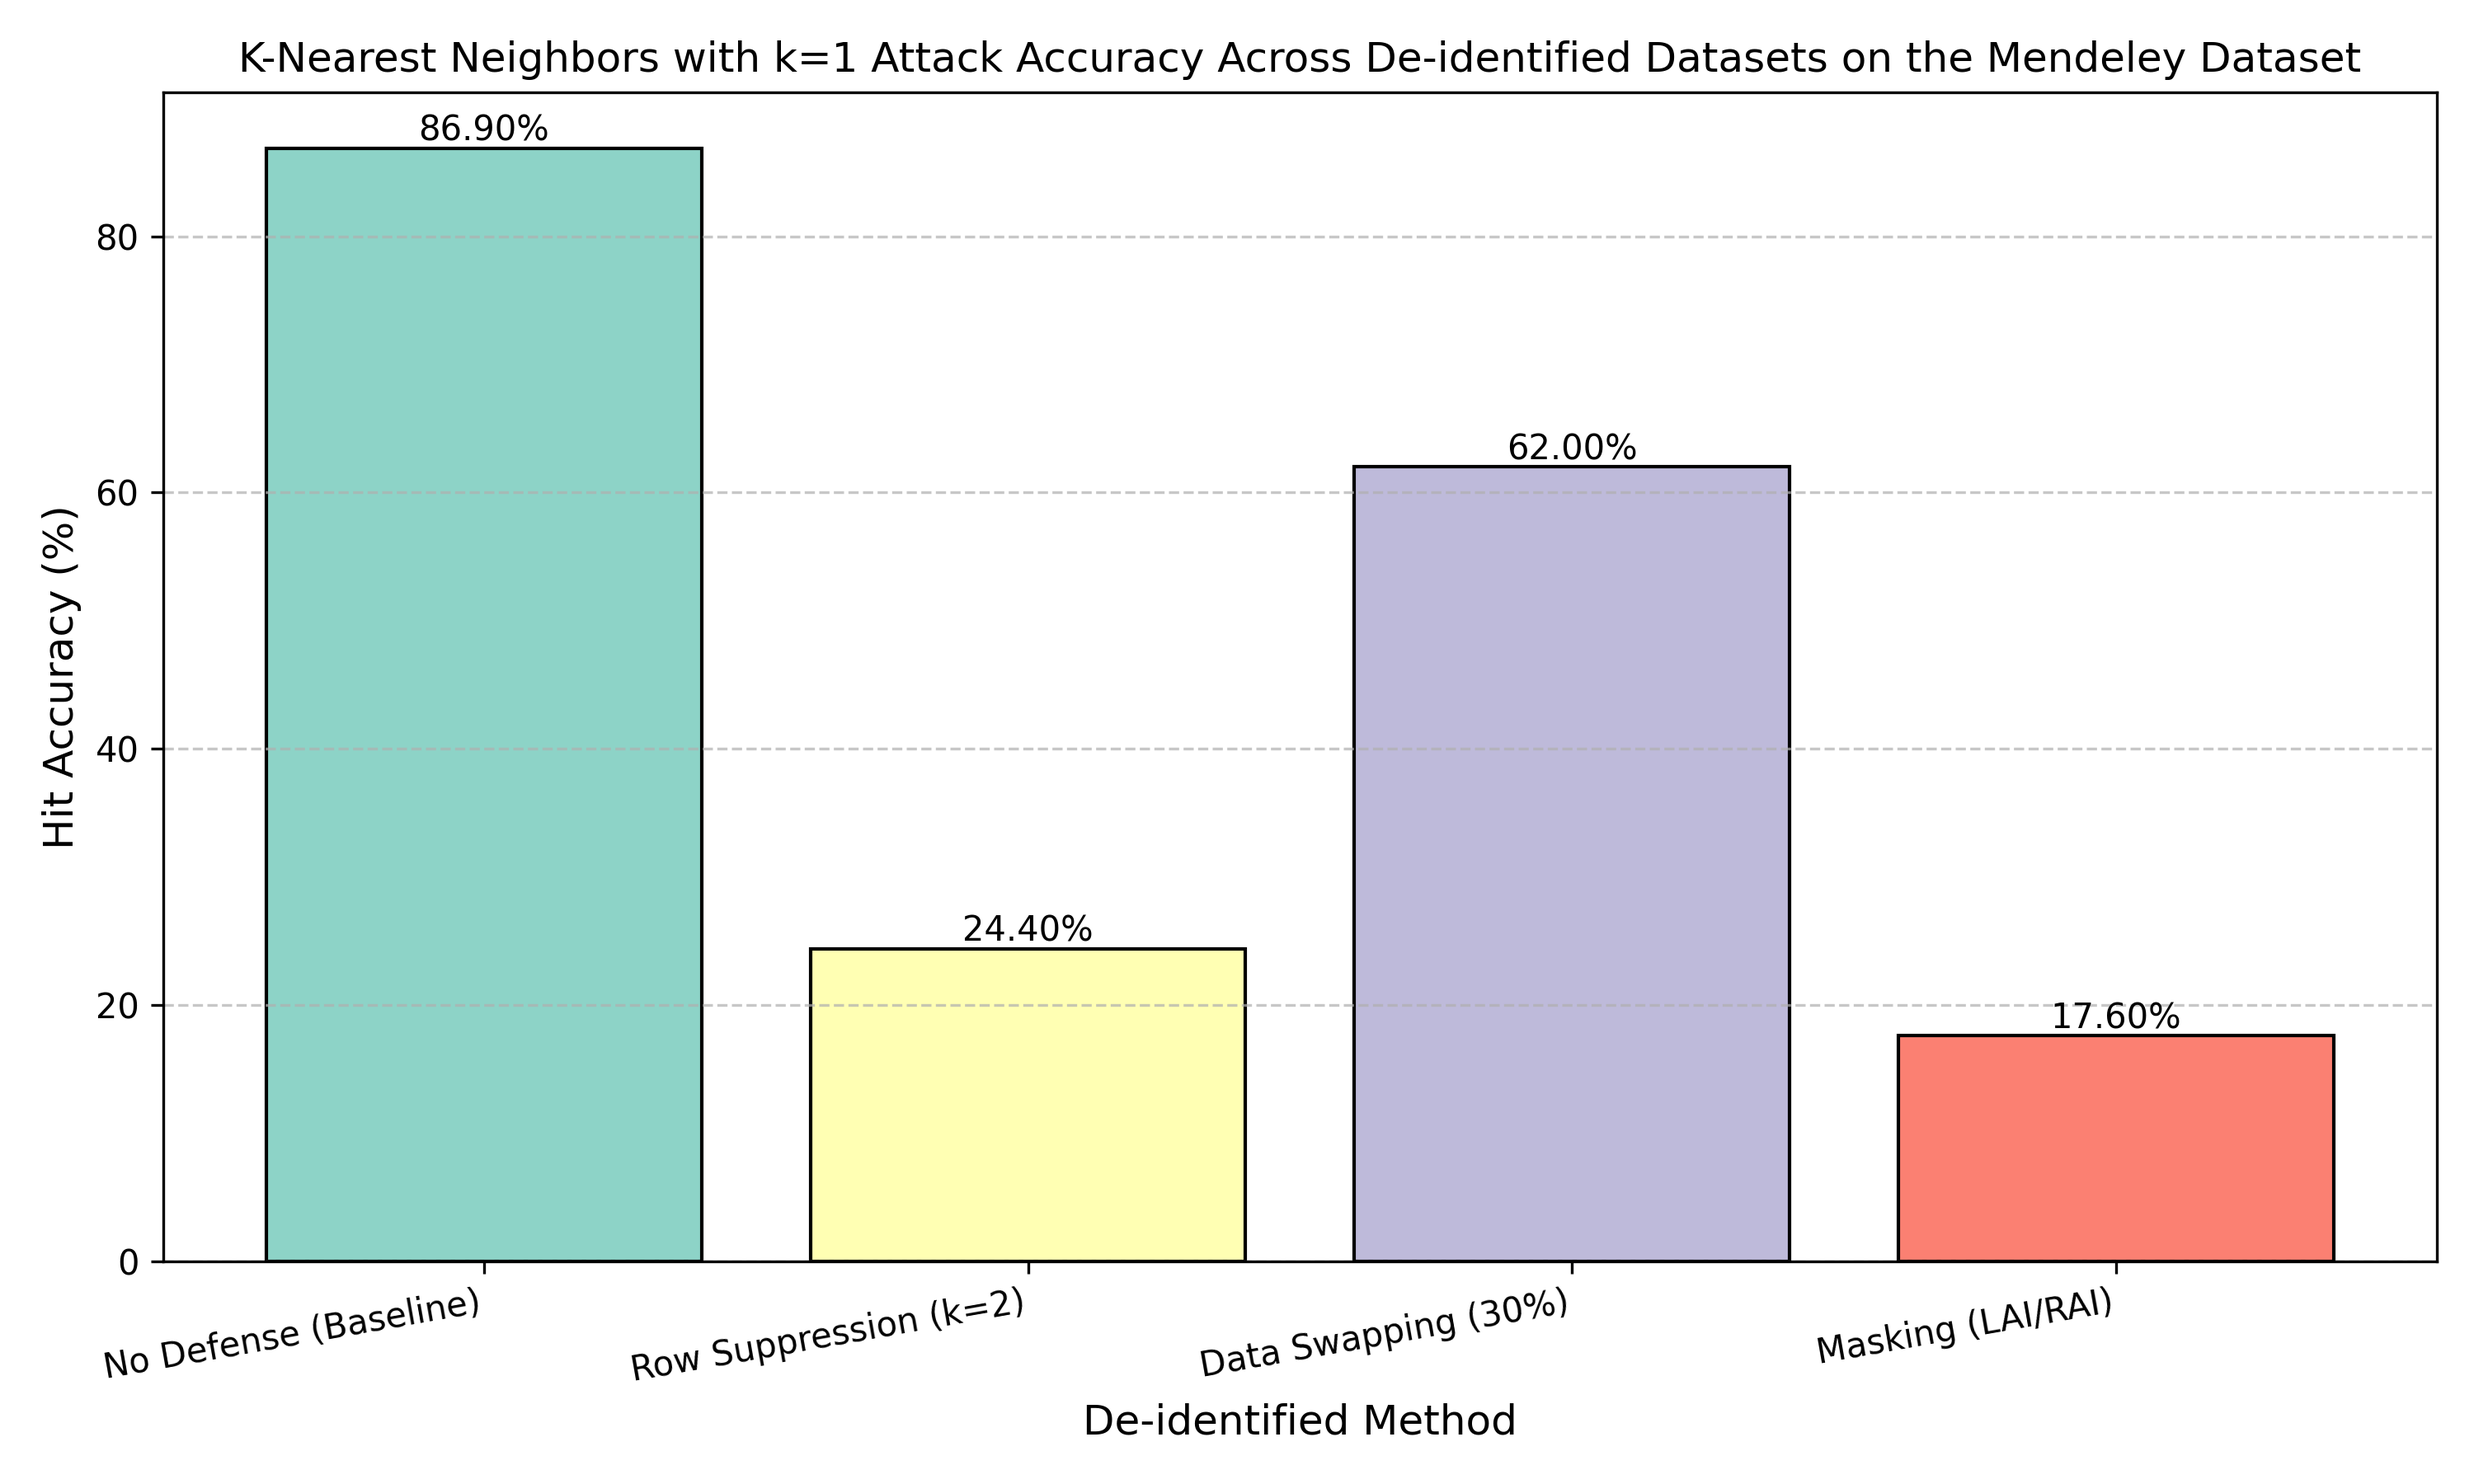
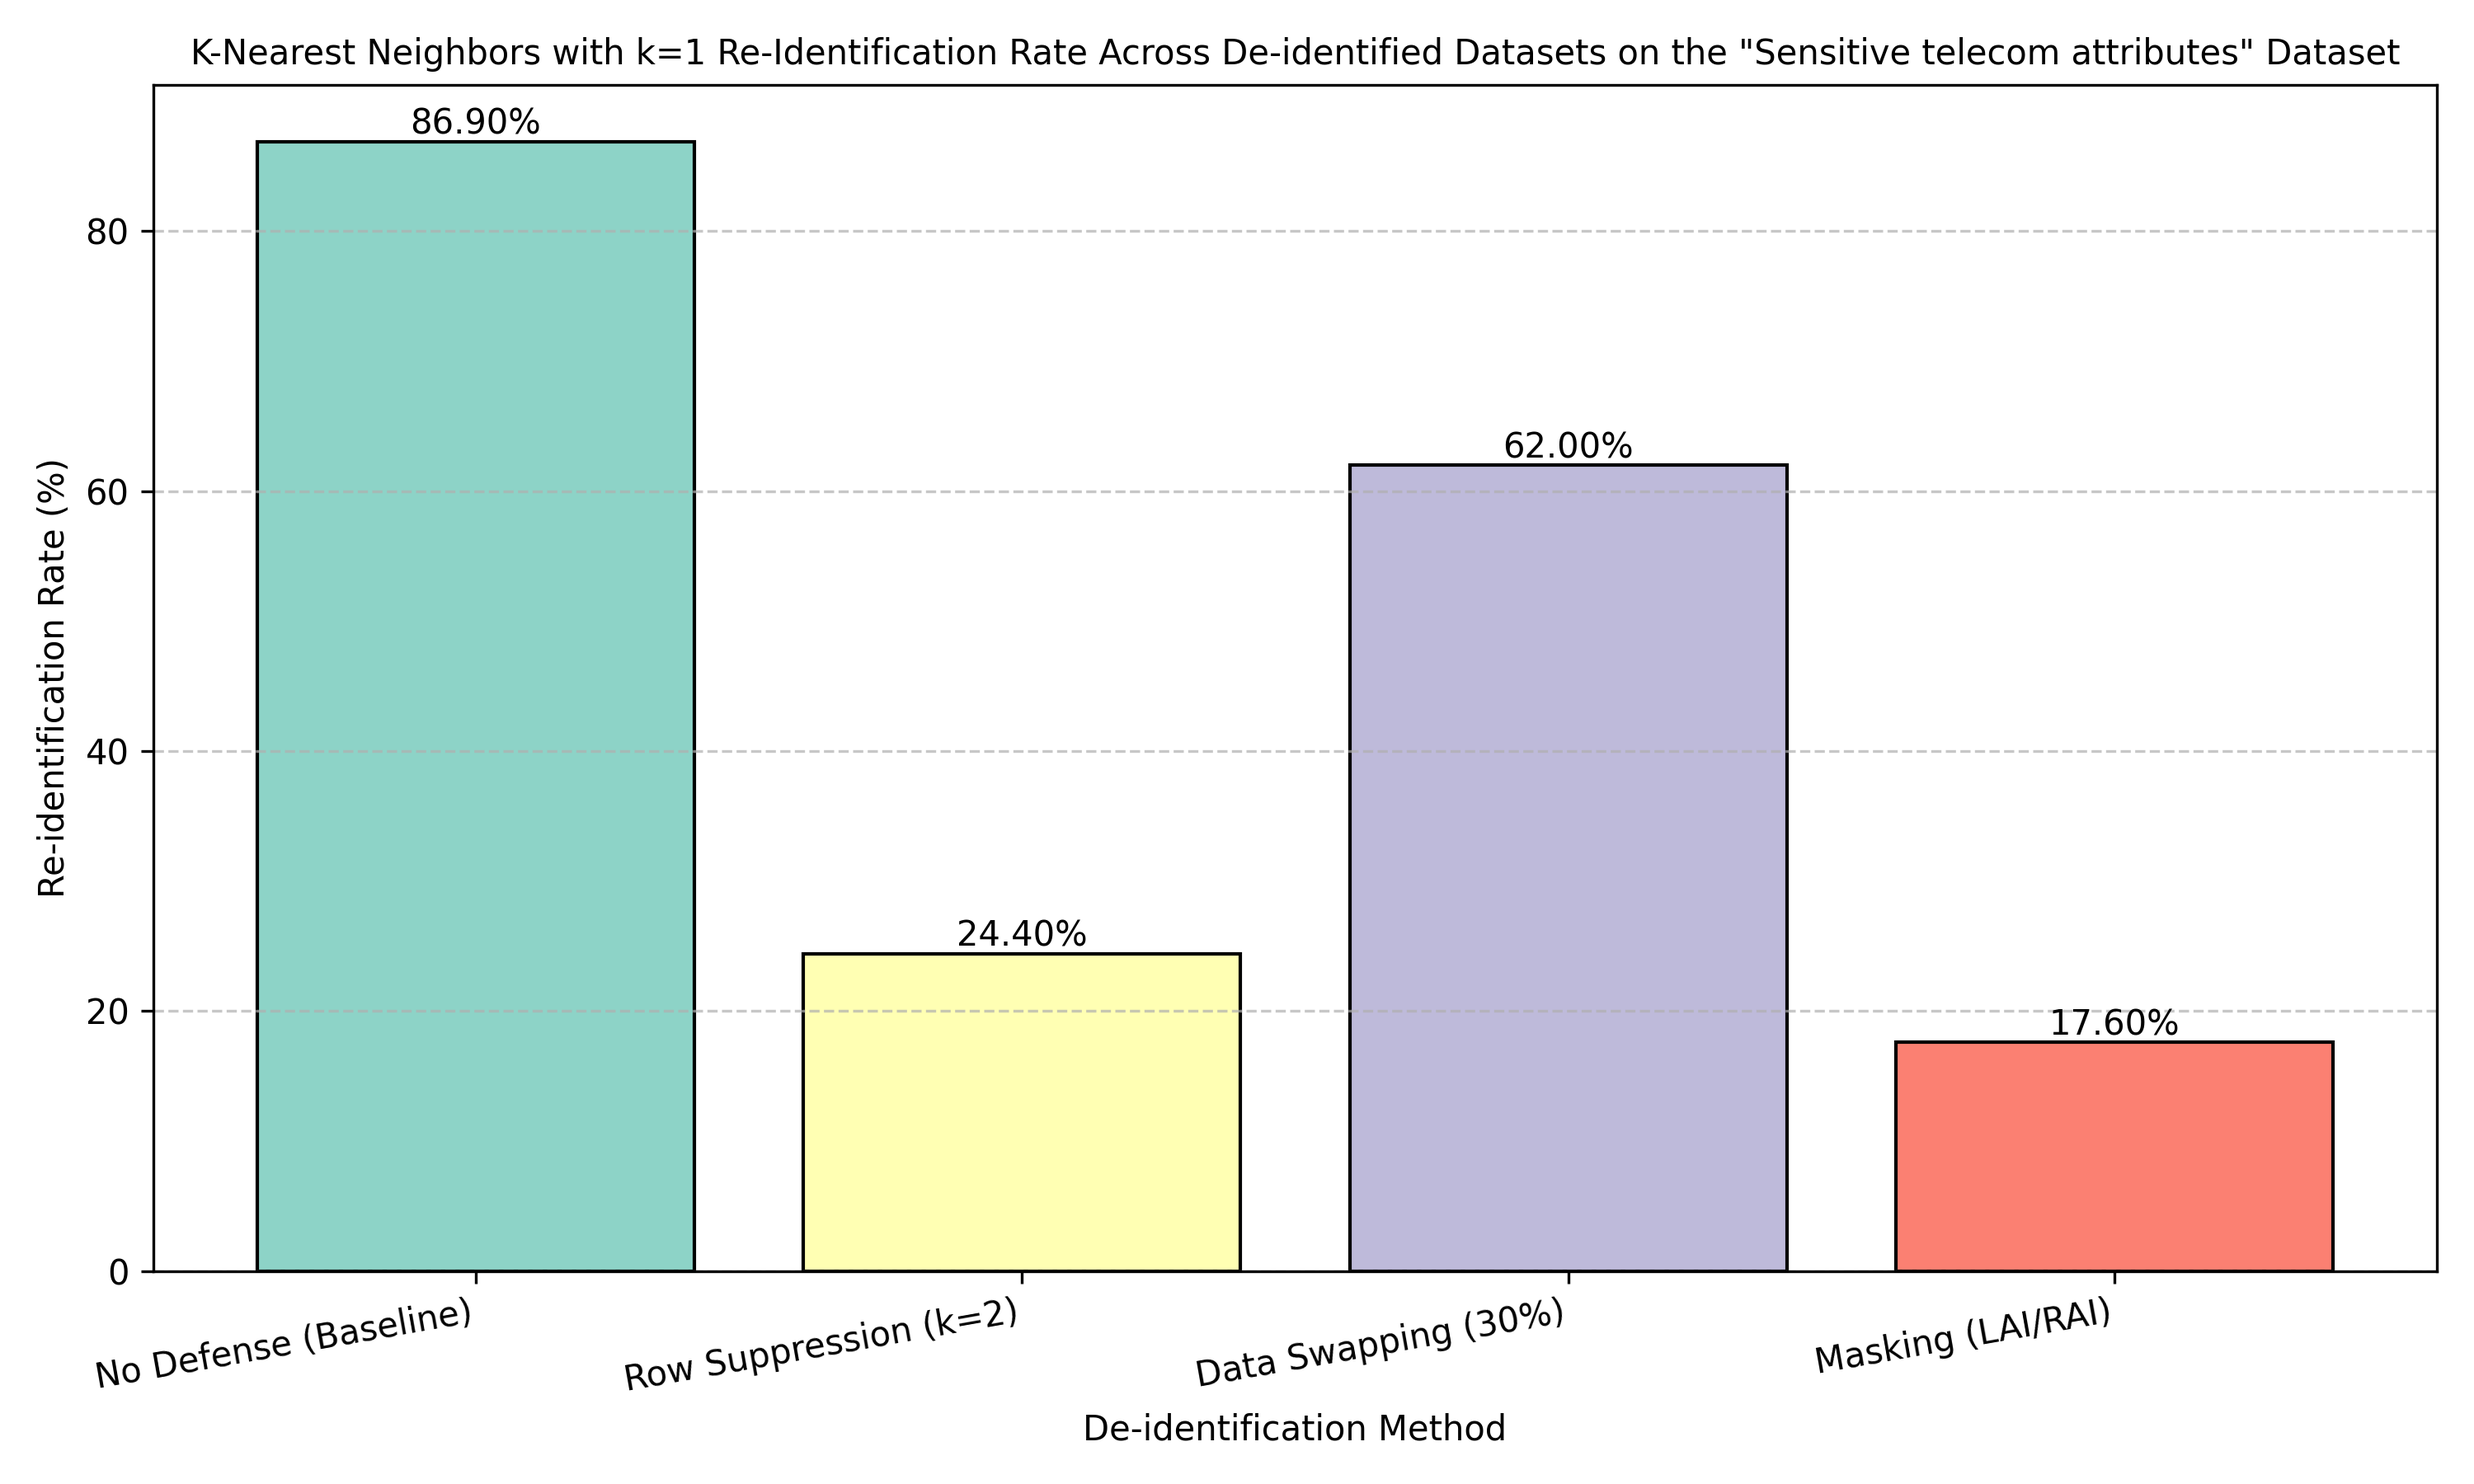
changes

diff --git a/benchmarks/attacks/k-nearest-neighbors-mendeley.py b/benchmarks/attacks/k-nearest-neighbors-mendeley.py
@@ -62,7 +62,6 @@ def evaluate_attack(results, df_attacker, df_protected, defense_name):
     print(f"Defense Method: {defense_name} - Hit Precision: {hit_precision:.2f}% ({correct_links}/{total_attacks} correct links)")
     return hit_precision
 
-
 def plot_results(results_dict, k):
     plt.figure(figsize=(10, 6)) 
     methods = list(results_dict.keys())
@@ -70,12 +69,12 @@ def plot_results(results_dict, k):
     
     for i in range(len(methods)):
         plt.bar(methods[i], accuracies[i], color=plt.cm.Set3(i), edgecolor='black')
-        plt.text(methods[i], accuracies[i] + 1, f"{accuracies[i]:.2f}%", ha='center', va='bottom', fontsize=10)
+        plt.text(methods[i], accuracies[i], f"{accuracies[i]:.2f}%", ha='center', va='bottom', fontsize=10)
         
-    plt.ylim(0, 100)
-    plt.ylabel('Hit Accuracy (%)', fontsize=12)
-    plt.xlabel('De-identified Method', fontsize=12)
-    plt.title(f'K-Nearest Neighbors with k={k} Attack Accuracy Across De-identified Datasets on the Mendeley Dataset', fontsize=12)
+    plt.xticks(rotation=10, ha='right', fontsize=10)    
+    plt.ylabel('Re-identification Rate (%)', fontsize=10)
+    plt.xlabel('De-identification Method', fontsize=10)
+    plt.title(f'K-Nearest Neighbors attack with k={k} Re-identification Rate Across De-identified Datasets on the "IP Address Geographic Profiles" Dataset', fontsize=10)
 
     plt.grid(axis='y', linestyle='--', alpha=0.7)
     plt.tight_layout()
@@ -92,8 +91,7 @@ if __name__ == "__main__":
         
     # add more defenses here
     datasets_to_test = {
-        # "No Defense (Baseline)": df_original,
-        "Only suppressed Direct Identifiers": pd.read_csv('../../datasets/de_identified_datasets/suppressed_DI_mendeley.csv'),
+        "No Defense (Baseline)": df_original,
         "Generalization" : pd.read_csv('../../datasets/de_identified_datasets/generalization_mendeley.csv'),
         "Row Suppression (k=2)": pd.read_csv('../../datasets/de_identified_datasets/row_suppression_mendeley.csv'),
         "Data Swapping (30%)": pd.read_csv('../../datasets/de_identified_datasets/swapped_dataset_mendeley.csv'),

diff --git a/benchmarks/attacks/netflix-attack-mendeley.py b/benchmarks/attacks/netflix-attack-mendeley.py
@@ -85,11 +85,12 @@ def plot_results(results_dict):
     
     for i in range(len(methods)):
         plt.bar(methods[i], accuracies[i], color=plt.cm.Set3(i), edgecolor='black')
-        plt.text(methods[i], accuracies[i] + 1, f"{accuracies[i]:.2f}%", ha='center', va='bottom', fontsize=10)
-    plt.ylim(0, 100)
-    plt.ylabel('Hit Accuracy (%)', fontsize=12)
-    plt.xlabel('De-identified Method', fontsize=12)
-    plt.title('Netflix Attack Accuracy Across De-identified Datasets on the Mendeley Dataset', fontsize=12)
+        plt.text(methods[i], accuracies[i], f"{accuracies[i]:.2f}%", ha='center', va='bottom', fontsize=10)
+        
+    plt.xticks(rotation=10, ha='right', fontsize=10)    
+    plt.ylabel('Re-identification Rate (%)', fontsize=10)
+    plt.xlabel('De-identification Method', fontsize=10)
+    plt.title('Netflix Attack Re-identification Rate Across De-identified Datasets on the "IP Address Geographic Profiles" Dataset', fontsize=10)
     plt.grid(axis='y', linestyle='--', alpha=0.7)
                  
     plt.tight_layout()

diff --git a/benchmarks/attacks/fellegi-sunter-mendeley.py b/benchmarks/attacks/fellegi-sunter-mendeley.py
@@ -83,12 +83,12 @@ def plot_results(results_dict):
     
     for i in range(len(methods)):
         plt.bar(methods[i], accuracies[i], color=plt.cm.Set3(i), edgecolor='black')
-        plt.text(methods[i], accuracies[i] + 1, f"{accuracies[i]:.2f}%", ha='center', va='bottom', fontsize=10)
+        plt.text(methods[i], accuracies[i], f"{accuracies[i]:.2f}%", ha='center', va='bottom', fontsize=10)
         
-    plt.ylim(0, 100)
-    plt.ylabel('Hit Accuracy (%)', fontsize=12)
-    plt.xlabel('De-identified Method', fontsize=12)
-    plt.title('Fellegi-Sunter Attack Accuracy Across De-identified Datasets on the Mendeley Dataset', fontsize=12)
+    plt.xticks(rotation=10, ha='right', fontsize=10)    
+    plt.ylabel('Re-identification Rate (%)', fontsize=10)
+    plt.xlabel('De-identification Method', fontsize=10)
+    plt.title('Fellegi-Sunter Attack Re-identification Rate Across De-identified Datasets on the "IP Address Geographic Profiles" Dataset', fontsize=10)
 
     plt.grid(axis='y', linestyle='--', alpha=0.7)
     plt.tight_layout()

diff --git a/benchmarks/attacks/k-nearest-neighbors-telecom.py b/benchmarks/attacks/k-nearest-neighbors-telecom.py
@@ -71,11 +71,11 @@ def plot_results(results_dict, k):
     for i in range(len(methods)):
         plt.bar(methods[i], accuracies[i], color=plt.cm.Set3(i), edgecolor='black')
         plt.text(methods[i], accuracies[i], f"{accuracies[i]:.2f}%", ha='center', va='bottom', fontsize=10)
-
+        
     plt.xticks(rotation=10, ha='right', fontsize=10)    
-    plt.ylabel('Hit Accuracy (%)', fontsize=12)
-    plt.xlabel('De-identified Method', fontsize=12)
-    plt.title(f'K-Nearest Neighbors with k={k} Attack Accuracy Across De-identified Datasets on the Mendeley Dataset', fontsize=12)
+    plt.ylabel('Re-identification Rate (%)', fontsize=10)
+    plt.xlabel('De-identification Method', fontsize=10)
+    plt.title(f'K-Nearest Neighbors with k={k} Re-Identification Rate Across De-identified Datasets on the "Sensitive telecom attributes" Dataset', fontsize=9)
         
 
     plt.grid(axis='y', linestyle='--', alpha=0.7)

diff --git a/benchmarks/attacks/netflix-attack-telecom.py b/benchmarks/attacks/netflix-attack-telecom.py
@@ -86,10 +86,11 @@ def plot_results(results_dict):
     for i in range(len(methods)):
         plt.bar(methods[i], accuracies[i], color=plt.cm.Set3(i), edgecolor='black')
         plt.text(methods[i], accuracies[i], f"{accuracies[i]:.2f}%", ha='center', va='bottom', fontsize=10)
+        
     plt.xticks(rotation=10, ha='right', fontsize=10)    
-    plt.ylabel('Hit Accuracy (%)', fontsize=12)
-    plt.xlabel('De-identified Method', fontsize=12)
-    plt.title('Netflix Attack Accuracy Across De-identified Datasets on the Telecom Dataset', fontsize=12)
+    plt.ylabel('Re-identification Rate (%)', fontsize=10)
+    plt.xlabel('De-identification Method', fontsize=10)
+    plt.title('Netflix Attack Re-Identification Rate Across De-identified Datasets on the "Sensitive telecom attributes" Dataset', fontsize=10)
     plt.grid(axis='y', linestyle='--', alpha=0.7)
                  
     plt.tight_layout()

diff --git a/benchmarks/attacks/fellegi-sunter-telecom.py b/benchmarks/attacks/fellegi-sunter-telecom.py
@@ -87,9 +87,9 @@ def plot_results(results_dict):
         plt.text(methods[i], accuracies[i], f"{accuracies[i]:.2f}%", ha='center', va='bottom', fontsize=10)
         
     plt.xticks(rotation=10, ha='right', fontsize=10)    
-    plt.ylabel('Hit Accuracy (%)', fontsize=12)
-    plt.xlabel('De-identified Method', fontsize=12)
-    plt.title('Fellegi-Sunter Attack Accuracy Across De-identified Datasets on the Mendeley Dataset', fontsize=12)
+    plt.ylabel('Re-identification Rate (%)', fontsize=10)
+    plt.xlabel('De-identification Method', fontsize=10)
+    plt.title('Fellegi-Sunter Attack Re-Identification Rate Across De-identified Datasets on the "Sensitive telecom attributes" Dataset', fontsize=10)
 
     plt.grid(axis='y', linestyle='--', alpha=0.7)
     plt.tight_layout()
